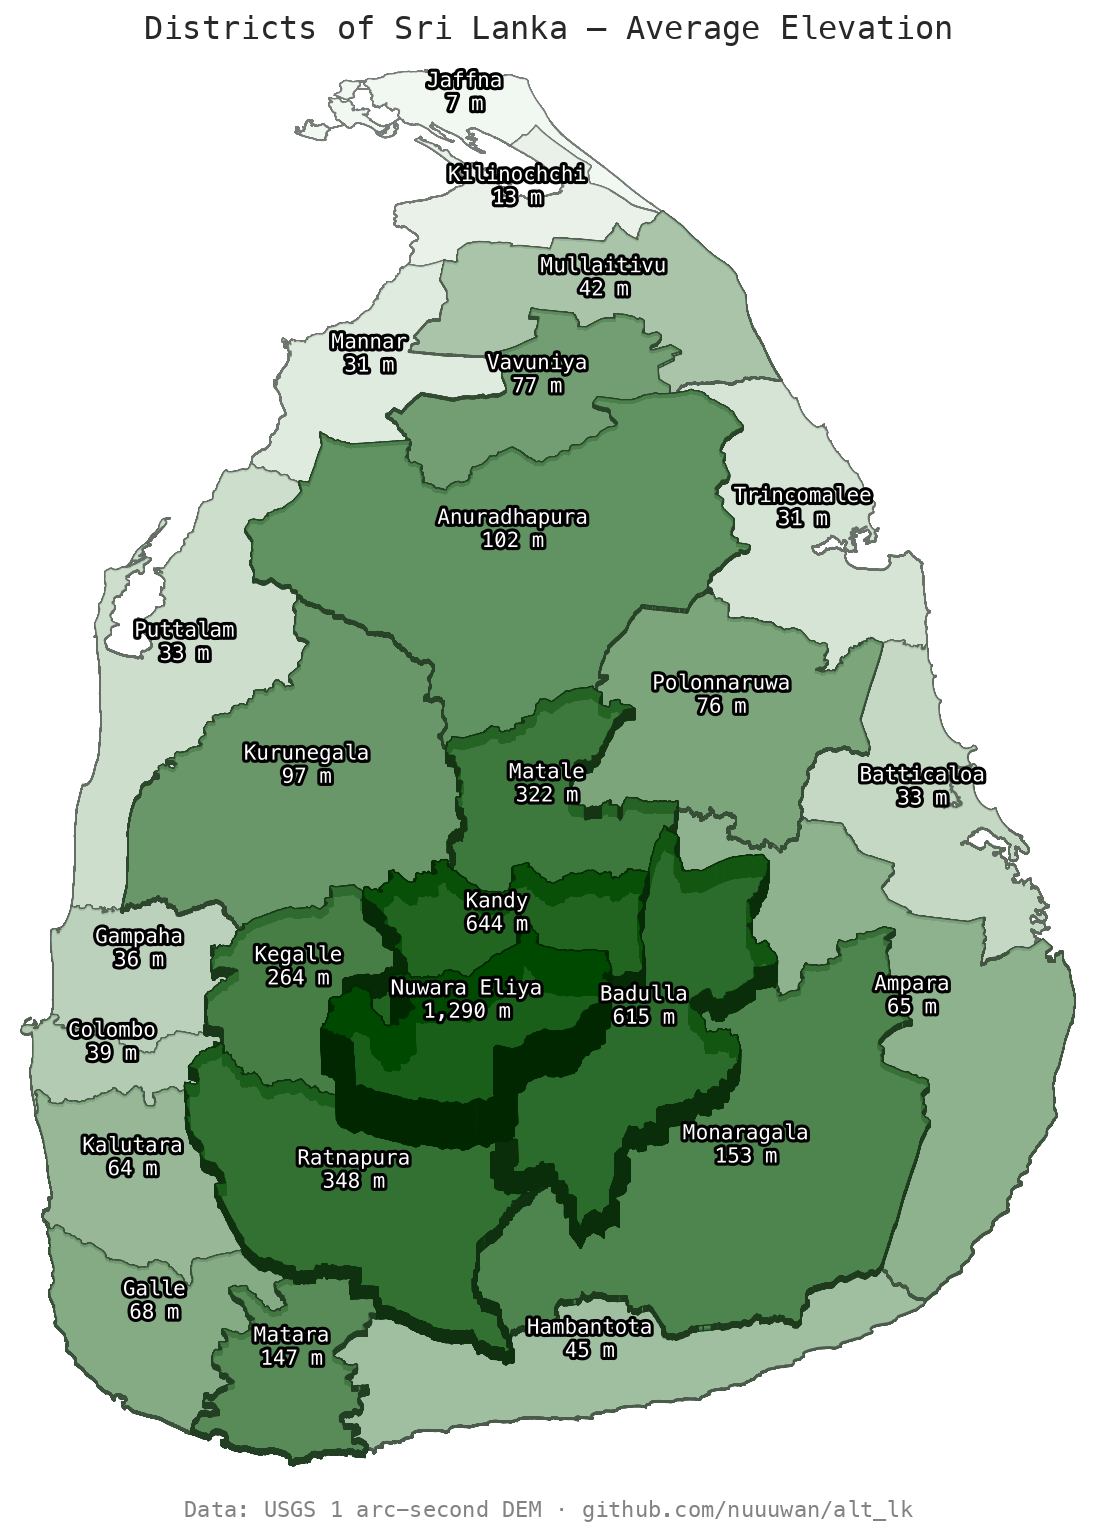
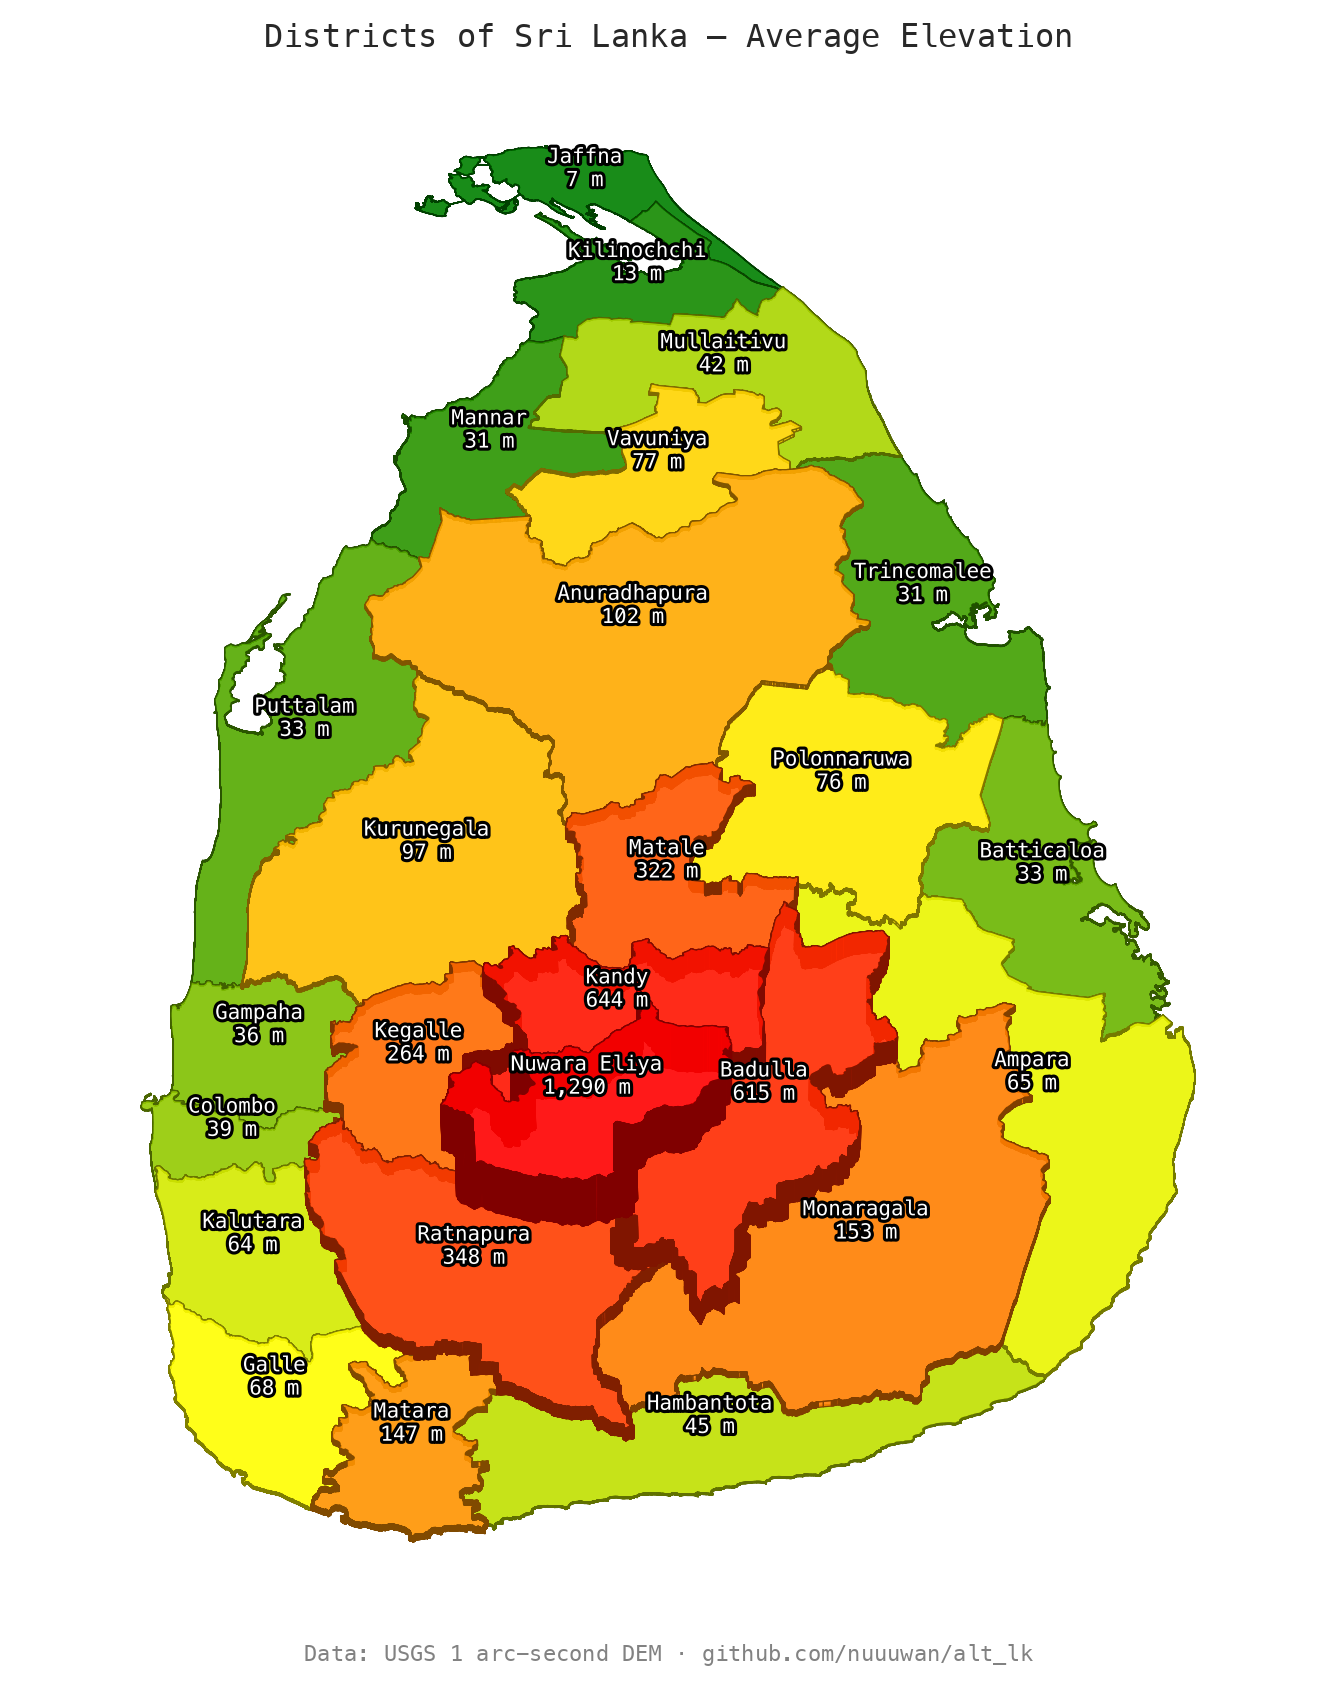
Refactor code structure for improved readability and maintainability

diff --git a/examples/average_altitude.py b/examples/average_altitude.py
@@ -90,7 +90,7 @@ def main(parent_ent_type):
     }
     norm = lambda v: rank_map[v]  # noqa: E731
     cmap = LinearSegmentedColormap.from_list(
-        "altitude_green", ["#f0f7f0", "#004d00"]
+        "altitude_gyr", ["green", "yellow", "red"]
     )
 
     # With computed_zorder=False, artists render in addition order.
@@ -123,7 +123,34 @@ def main(parent_ent_type):
 
     # Pass 2: draw labels with high zorder — with computed_zorder=False
     # these always render on top of all Poly3DCollection geometry.
-    for ent, alt, poly, color, z_top in ent_poly_data:
+    MAX_LABELS = 30
+    label_data = ent_poly_data
+    if len(label_data) > MAX_LABELS:
+        # Greedy farthest-point selection for geographic spread.
+        # Start with the entry whose centroid is most extreme (lowest lat),
+        # then repeatedly pick the candidate farthest from all already-selected
+        # centroids (Euclidean in lon/lat space).
+        candidates = list(label_data)
+        centroids = [(item[2].centroid.x, item[2].centroid.y) for item in candidates]
+
+        def _min_dist_to_selected(idx, selected_idxs):
+            cx, cy = centroids[idx]
+            return min(
+                (cx - centroids[s][0]) ** 2 + (cy - centroids[s][1]) ** 2
+                for s in selected_idxs
+            )
+
+        # seed: pick the item with the lowest centroid latitude
+        seed = min(range(len(candidates)), key=lambda i: centroids[i][1])
+        selected_idxs = [seed]
+        while len(selected_idxs) < MAX_LABELS:
+            next_idx = max(
+                (i for i in range(len(candidates)) if i not in selected_idxs),
+                key=lambda i: _min_dist_to_selected(i, selected_idxs),
+            )
+            selected_idxs.append(next_idx)
+        label_data = [candidates[i] for i in selected_idxs]
+    for ent, alt, poly, color, z_top in label_data:
         centroid = poly.centroid
         ax.text(
             centroid.x,
@@ -183,7 +210,7 @@ def main(parent_ent_type):
     diff = ImageChops.difference(img, bg)
     bbox = diff.getbbox()
     if bbox:
-        margin = 20
+        margin = 80
         w, h = img.size
         bbox = (
             max(0, bbox[0] - margin),
@@ -202,14 +229,15 @@ def main(parent_ent_type):
     )
     footer = "Data: USGS 1 arc-second DEM · github.com/nuuuwan/alt_lk"
 
-    padding = 48
+    padding = 64
+    h_padding = 60
     line_h = 30
     new_img = Image.new(
         "RGB",
-        (img.width, img.height + padding * 2),
+        (img.width + h_padding * 2, img.height + padding * 2),
         (255, 255, 255),
     )
-    new_img.paste(img, (0, padding))
+    new_img.paste(img, (h_padding, padding))
 
     draw = ImageDraw.Draw(new_img)
     try:
